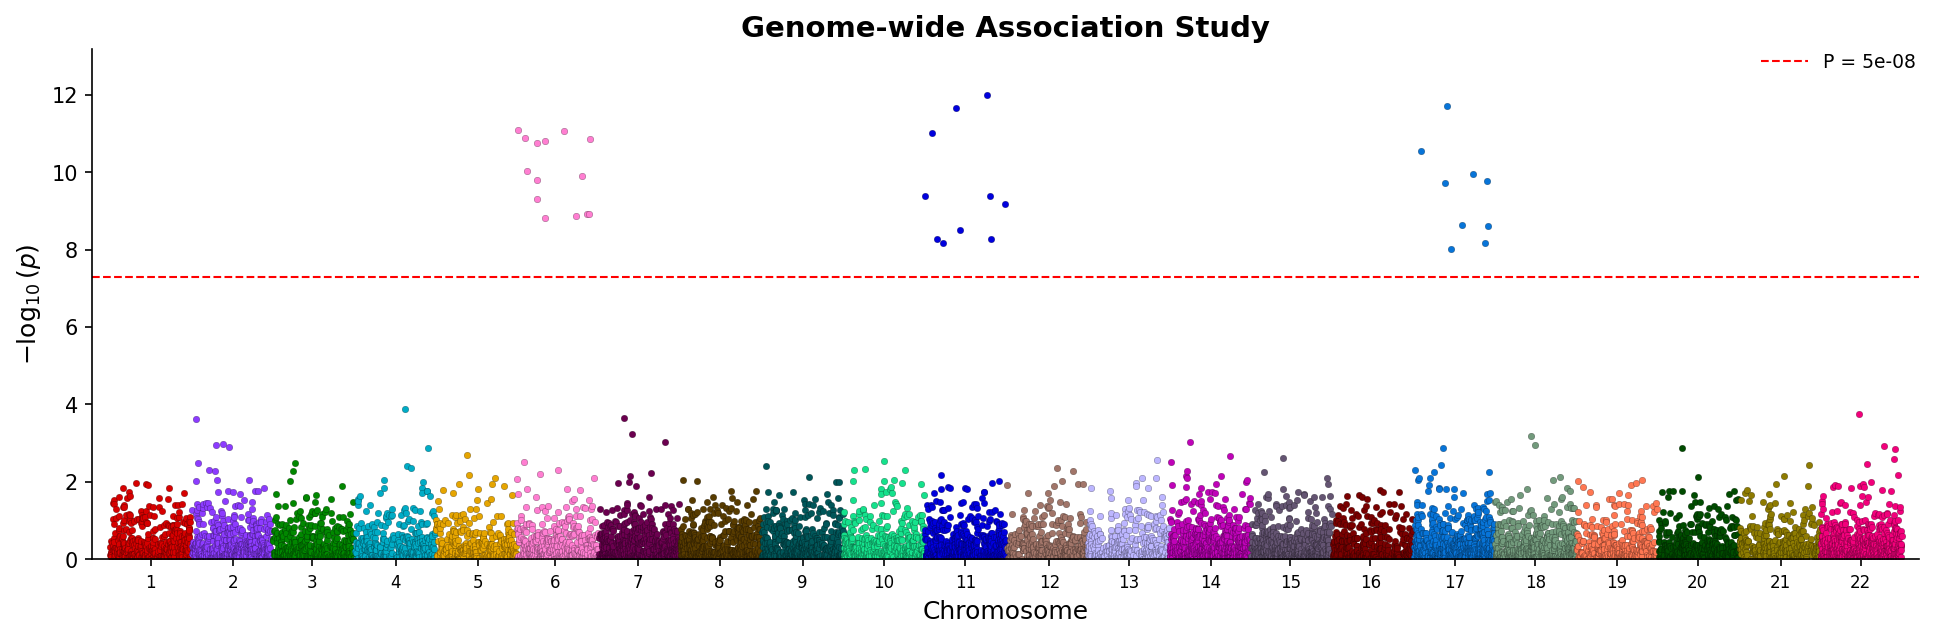
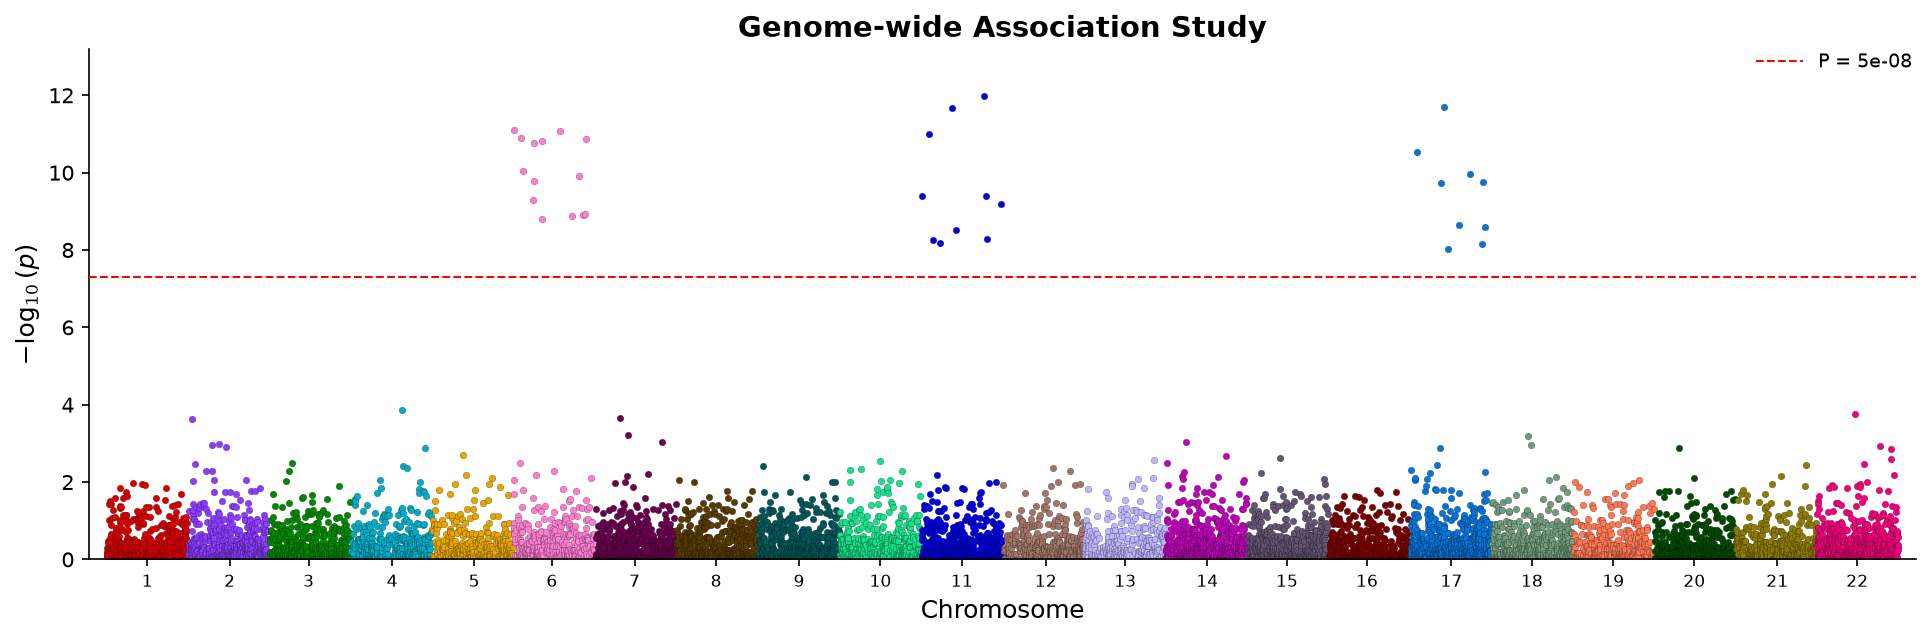
Draw Manhattan threshold lines over the points
On a dense genome-wide panel the points fill the band around 5e-8, and the
significance and suggestive lines, drawn at zorder 1 beneath the zorder-2
scatter, were hidden. ManhattanPanelSpec now draws them one level above the
points, which covers plot_manhattan (genomic and categorical), the stacked
and Manhattan-QQ panels, and both Miami halves. add_significance_line takes
a zorder, defaulting to the old value, so regional panels are unchanged.

Plotly hlines and Bokeh Spans already render above glyphs, so only the
matplotlib Manhattan-family example images change.

diff --git a/tests/test_manhattan_plotter_methods.py b/tests/test_manhattan_plotter_methods.py
@@ -5,7 +5,7 @@ import pandas as pd
 import pytest
 from matplotlib.collections import PathCollection, PolyCollection
 
-from pylocuszoom import GenomeWideConfig
+from pylocuszoom import GenomeWideConfig, MiamiPlotter
 from pylocuszoom.backends import BUILTIN_BACKENDS
 from pylocuszoom.manhattan_plotter import ManhattanPlotter
 from tests.conftest import FIGURE_TYPES
@@ -650,6 +650,61 @@ class TestYlimCoversThresholdLines:
         assert top.get_ylim()[1] > line
         assert bottom.get_ylim()[0] > line
         assert bottom.get_ylim()[1] == 0
+
+
+_PLOTTER = ManhattanPlotter(species="human")
+_CATEGORIES = pd.DataFrame({"cat": ["a", "b", "c"], "p_value": [0.1, 0.01, 1e-9]})
+
+# Each figure family that draws Manhattan panels, and how many panels with a
+# threshold line it draws.
+_MANHATTAN_FIGURES = {
+    "manhattan": (lambda df: _PLOTTER.plot_manhattan(df), 1),
+    "categorical": (
+        lambda df: _PLOTTER.plot_manhattan(_CATEGORIES, category_col="cat"),
+        1,
+    ),
+    "stacked": (lambda df: _PLOTTER.plot_manhattan_stacked([df, df]), 2),
+    "manhattan_qq": (
+        lambda df: _PLOTTER.plot_manhattan_qq(df, suggestive_threshold=1e-5),
+        1,
+    ),
+    "manhattan_qq_stacked": (
+        lambda df: _PLOTTER.plot_manhattan_qq_stacked([df, df]),
+        2,
+    ),
+    "miami": (
+        lambda df: MiamiPlotter(species="human").plot_miami(df, df),
+        2,
+    ),
+}
+
+
+class TestThresholdLinesAbovePoints:
+    """A threshold line on a Manhattan panel is drawn over the points.
+
+    A dense panel fills the band around 5e-8 with points; a line drawn
+    beneath them is hidden.
+    """
+
+    @pytest.mark.parametrize("name", list(_MANHATTAN_FIGURES))
+    def test_every_threshold_line_is_above_every_point(self, name, manhattan_gwas_df):
+        draw, n_panels = _MANHATTAN_FIGURES[name]
+        fig = draw(manhattan_gwas_df)
+
+        checked = 0
+        for ax in fig.get_axes():
+            lines = [
+                line for line in ax.get_lines() if list(line.get_xdata()) == [0, 1]
+            ]
+            if not lines:
+                continue
+            points = [c for c in ax.collections if isinstance(c, PathCollection)]
+            assert points
+            assert min(line.get_zorder() for line in lines) > max(
+                c.get_zorder() for c in points
+            )
+            checked += 1
+        assert checked == n_panels
 
 
 class TestPlotManhattanQQOptions:

diff --git a/src/pylocuszoom/panels/manhattan.py b/src/pylocuszoom/panels/manhattan.py
@@ -30,6 +30,11 @@ from ._shared import (
 
 T = TypeVar("T")
 
+MANHATTAN_POINT_ZORDER = 2
+# A dense panel fills the band around a threshold with points, so the lines
+# are drawn over them.
+THRESHOLD_LINE_ZORDER = MANHATTAN_POINT_ZORDER + 1
+
 
 def styled(override: Optional[T], default: T) -> T:
     """Return a style field the caller set, or the panel's own default."""
@@ -143,7 +148,7 @@ class ManhattanPanelSpec:
                 marker="o",
                 edgecolor=POINT_EDGE_COLOR,
                 linewidth=styled(style.point_edge_width, MANHATTAN_EDGE_WIDTH),
-                zorder=2,
+                zorder=MANHATTAN_POINT_ZORDER,
                 hover_data=hover_data,
                 alpha=style.point_alpha,
             )
@@ -151,7 +156,14 @@ class ManhattanPanelSpec:
         line_kwargs = dict(linestyle=style.line_style, linewidth=style.line_width)
         lines = self.threshold_lines()
         for threshold, color in lines:
-            add_significance_line(backend, ax, threshold, color=color, **line_kwargs)
+            add_significance_line(
+                backend,
+                ax,
+                threshold,
+                color=color,
+                zorder=THRESHOLD_LINE_ZORDER,
+                **line_kwargs,
+            )
         if style.show_threshold_legend and lines:
             # The headroom is at the bottom of an inverted panel.
             backend.add_legend(

diff --git a/src/pylocuszoom/panels/_shared.py b/src/pylocuszoom/panels/_shared.py
@@ -30,6 +30,7 @@ def add_significance_line(
     alpha: float = 1.0,
     linestyle: str = "--",
     linewidth: float = 1,
+    zorder: int = 1,
 ) -> None:
     """Draw the significance line at ``-log10(threshold)``.
 
@@ -43,12 +44,18 @@ def add_significance_line(
         alpha: Opacity of the line.
         linestyle: Matplotlib linestyle of the line.
         linewidth: Width of the line.
+        zorder: Drawing order. The default puts the line beneath points
+            drawn at the scatter default of 2.
     """
     if threshold is None:
         return
     value = -np.log10(threshold)
     style = dict(
-        color=color, linestyle=linestyle, linewidth=linewidth, alpha=alpha, zorder=1
+        color=color,
+        linestyle=linestyle,
+        linewidth=linewidth,
+        alpha=alpha,
+        zorder=zorder,
     )
     if axis == "x":
         backend.axvline(ax, x=value, **style)

diff --git a/CHANGELOG.md b/CHANGELOG.md
@@ -7,6 +7,10 @@ and this project adheres to [Semantic Versioning](https://semver.org/spec/v2.0.0
 
 ## [Unreleased]
 
+### Fixed
+
+- **Threshold lines on matplotlib Manhattan panels are drawn over the points.** They were drawn beneath them, so on a dense panel, where points fill the band around 5e-8, the significance and suggestive lines were hidden. This covers `plot_manhattan` (genomic and categorical), `plot_manhattan_stacked`, the Manhattan panels of `plot_manhattan_qq` and `plot_manhattan_qq_stacked`, and both halves of `plot_miami`. Plotly and Bokeh already drew the lines above the points and are unchanged. Regional panels keep the line beneath their points. The six matplotlib Manhattan-family example images are regenerated.
+
 ## [5.3.0] - 2026-10-28
 
 ### Changed

diff --git a/docs/USER_GUIDE.md b/docs/USER_GUIDE.md
@@ -802,6 +802,9 @@ suggestive line has two entries side by side, the larger p-value first. A
 panel that draws no line (`significance_threshold=None`) has no key, and a QQ
 panel never has one.
 
+The threshold lines are drawn over the points, so a dense panel does not hide
+them.
+
 The key is a frameless row in the right corner of the panel's headroom, the
 space `y_headroom` leaves beyond the highest point: the top right of an
 upright panel and the bottom right of the lower Miami panel. All three backends
